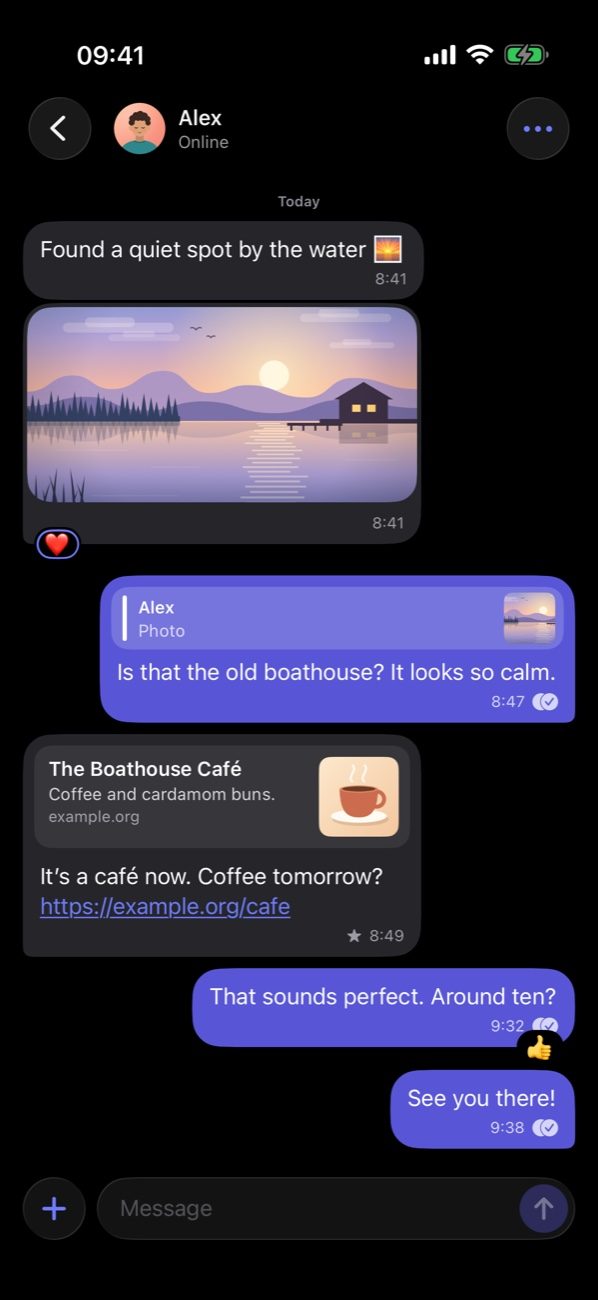
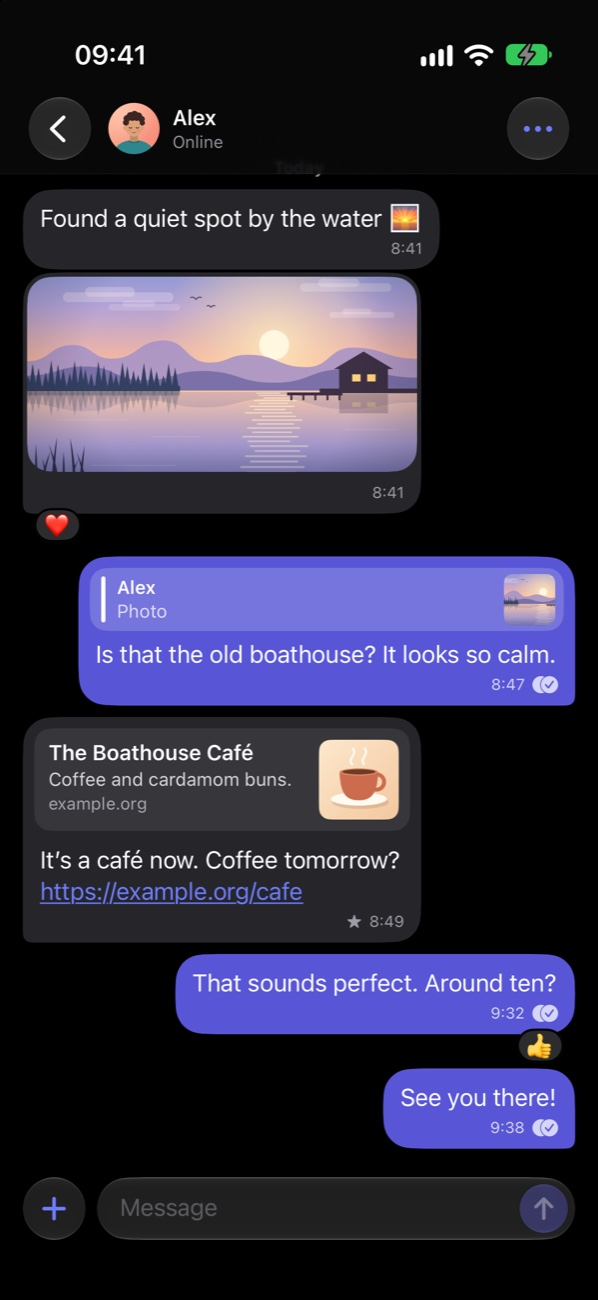
docs(readme): show the iphone screenshot in light and dark side by side
The screenshots are retaken after the reaction pill fix: no ring on the own reaction, and pills that clear the time and receipts. The landing page uses the same files.

diff --git a/README.md b/README.md
@@ -2,10 +2,7 @@
 
 [**xmpp.haus**](https://xmpp.haus) · [Privacy](https://xmpp.haus/privacy/) · [Support](https://xmpp.haus/support/)
 
-<picture>
-  <source media="(prefers-color-scheme: dark)" srcset="site/public/images/iphone-dark.jpg">
-  <img src="site/public/images/iphone-light.jpg" width="300" alt="A conversation in Haus XMPP on iPhone, with a photo, a link preview, a reply, reactions and read receipts">
-</picture>
+<img src="site/public/images/iphone-light.jpg" width="280" alt="A conversation in Haus XMPP on iPhone in light mode, with a photo, a link preview, a reply, reactions and read receipts">&nbsp;&nbsp;<img src="site/public/images/iphone-dark.jpg" width="280" alt="The same conversation in dark mode">
 
 > [!WARNING]
 > **Haus XMPP is early software and not ready for personal conversations.** Most of what's listed below has been tested against a local Prosody test server, with disposable accounts and independent OMEMO implementations (python-omemo, QXmpp and libomemo.js) on the other side. Decrypted notification previews have been checked on a real iPhone. There hasn't been broad testing with other clients and servers yet, or a full release validation. There are no public builds.
